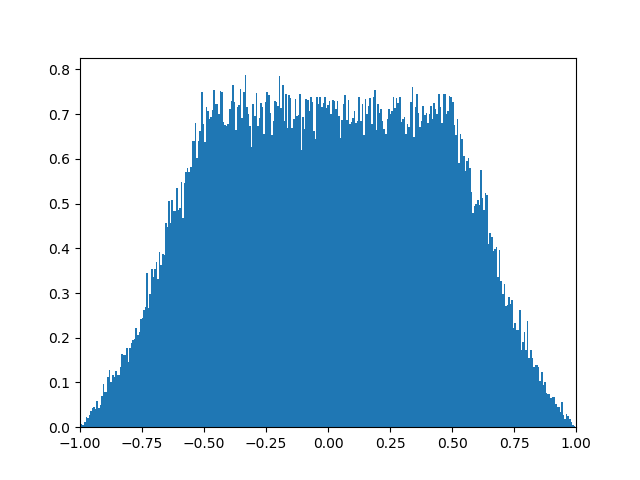
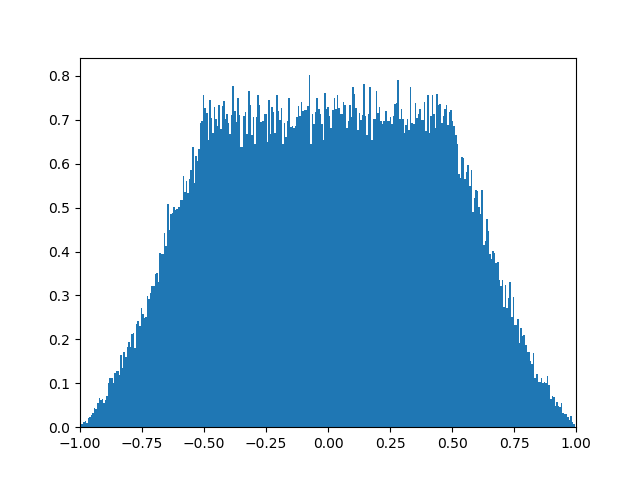
Trying to understand the trapeze

diff --git a/Code/main.py b/Code/main.py
@@ -6,7 +6,7 @@ import pacal
 import time
 
 def test_error_model(distribution):
-    error=ErrorModel(distribution,10,-14,15)
+    error=ErrorModel(distribution,2,-1,1)
     error.compute()
 
 
@@ -26,7 +26,7 @@ def test_simple_tests():
 start = time.time()
 dist = pacal.UniformDistr(-100,100)
 test_error_model(dist)
-test_plot_error(dist)
+#test_plot_error(dist)
 end = time.time()
 print('Elapsed time:'+repr(end - start)+'s')
 

diff --git a/Code/stats.py b/Code/stats.py
@@ -16,6 +16,6 @@ def plot_error(distribution, precision, samplesize):
     n, bins, patches =  plt.hist(errors,bins=bin_nb, density=True)
     axes = plt.gca()
     axes.set_xlim([-1,1])
-    #plt.savefig('pics/reallyweird_'+repr(precision))
+    #plt.savefig('pics/unifsmall_'+repr(precision))
     plt.savefig('pics/'+repr(distribution.getName()).replace("'",'')+'_'+repr(precision))
     plt.clf()
